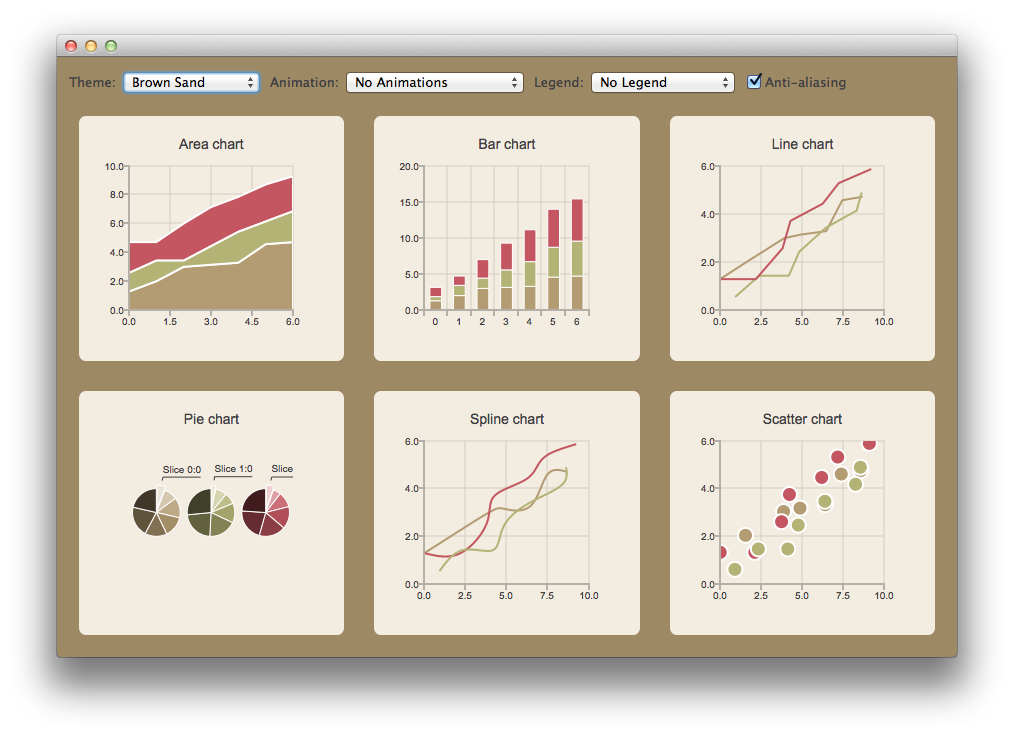
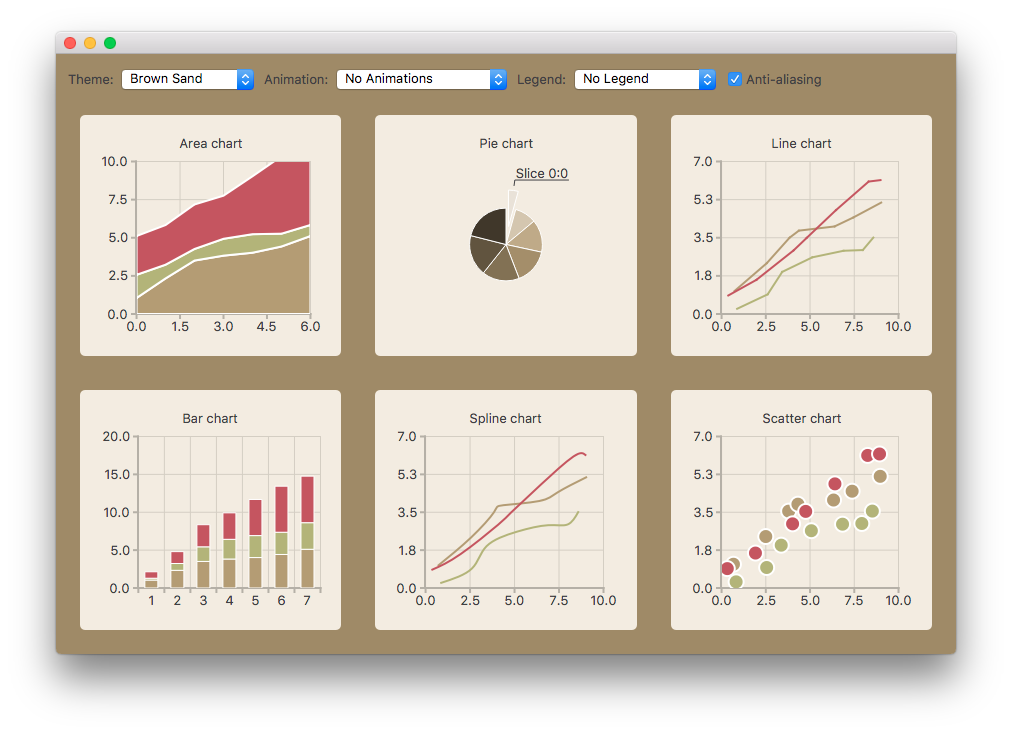
Update appearance of Chart Themes Example
Default ranges are set to axes. Only one pie chart is shown. Space added
to y-axis labels to add space between labels and axis.

Task-number: QTBUG-60662

diff --git a/qtcharts/examples/charts/chartthemes/themewidget.cpp b/qtcharts/examples/charts/chartthemes/themewidget.cpp
@@ -53,6 +53,7 @@
 #include <QtCore/QRandomGenerator>
 #include <QtCharts/QBarCategoryAxis>
 #include <QtWidgets/QApplication>
+#include <QtCharts/QValueAxis>
 
 ThemeWidget::ThemeWidget(QWidget *parent) :
     QWidget(parent),
@@ -75,7 +76,9 @@ ThemeWidget::ThemeWidget(QWidget *parent) :
     m_ui->gridLayout->addWidget(chartView, 1, 0);
     m_charts << chartView;
 
-    chartView = new QChartView(createBarChart(m_valueCount));
+    chartView = new QChartView(createPieChart());
+    // Funny things happen if the pie slice labels do not fit the screen, so we ignore size policy
+    chartView->setSizePolicy(QSizePolicy::Ignored, QSizePolicy::Ignored);
     m_ui->gridLayout->addWidget(chartView, 1, 1);
     m_charts << chartView;
 
@@ -83,9 +86,7 @@ ThemeWidget::ThemeWidget(QWidget *parent) :
     m_ui->gridLayout->addWidget(chartView, 1, 2);
     m_charts << chartView;
 
-    chartView = new QChartView(createPieChart());
-    // Funny things happen if the pie slice labels do not fit the screen, so we ignore size policy
-    chartView->setSizePolicy(QSizePolicy::Ignored, QSizePolicy::Ignored);
+    chartView = new QChartView(createBarChart(m_valueCount));
     m_ui->gridLayout->addWidget(chartView, 2, 0);
     m_charts << chartView;
 
@@ -191,9 +192,14 @@ QChart *ThemeWidget::createAreaChart() const
         area->setName(name + QString::number(nameIndex));
         nameIndex++;
         chart->addSeries(area);
-        chart->createDefaultAxes();
         lowerSeries = upperSeries;
     }
+
+    chart->createDefaultAxes();
+    chart->axisX()->setRange(0, m_valueCount - 1);
+    chart->axisY()->setRange(0, m_valueMax);
+    // Add space to label to add space between labels and axis
+    static_cast<QValueAxis *>(chart->axisY())->setLabelFormat("%.1f  ");
 
     return chart;
 }
@@ -212,7 +218,11 @@ QChart *ThemeWidget::createBarChart(int valueCount) const
         series->append(set);
     }
     chart->addSeries(series);
+
     chart->createDefaultAxes();
+    chart->axisY()->setRange(0, m_valueMax * 2);
+    // Add space to label to add space between labels and axis
+    static_cast<QValueAxis *>(chart->axisY())->setLabelFormat("%.1f  ");
 
     return chart;
 }
@@ -232,7 +242,12 @@ QChart *ThemeWidget::createLineChart() const
         nameIndex++;
         chart->addSeries(series);
     }
+
     chart->createDefaultAxes();
+    chart->axisX()->setRange(0, m_valueMax);
+    chart->axisY()->setRange(0, m_valueCount);
+    // Add space to label to add space between labels and axis
+    static_cast<QValueAxis *>(chart->axisY())->setLabelFormat("%.1f  ");
 
     return chart;
 }
@@ -242,29 +257,24 @@ QChart *ThemeWidget::createPieChart() const
     QChart *chart = new QChart();
     chart->setTitle("Pie chart");
 
-    qreal pieSize = 1.0 / m_dataTable.count();
-    for (int i = 0; i < m_dataTable.count(); i++) {
-        QPieSeries *series = new QPieSeries(chart);
-        for (const Data &data : m_dataTable[i]) {
-            QPieSlice *slice = series->append(data.second, data.first.y());
-            if (data == m_dataTable[i].first()) {
-                slice->setLabelVisible();
-                slice->setExploded();
-            }
+    QPieSeries *series = new QPieSeries(chart);
+    for (const Data &data : m_dataTable[0]) {
+        QPieSlice *slice = series->append(data.second, data.first.y());
+        if (data == m_dataTable[0].first()) {
+            // Show the first slice exploded with label
+            slice->setLabelVisible();
+            slice->setExploded();
+            slice->setExplodeDistanceFactor(0.5);
         }
-        qreal hPos = (pieSize / 2) + (i / (qreal) m_dataTable.count());
-        series->setPieSize(pieSize);
-        series->setHorizontalPosition(hPos);
-        series->setVerticalPosition(0.5);
-        chart->addSeries(series);
     }
+    series->setPieSize(0.4);
+    chart->addSeries(series);
 
     return chart;
 }
 
 QChart *ThemeWidget::createSplineChart() const
 {
-    // spine chart
     QChart *chart = new QChart();
     chart->setTitle("Spline chart");
     QString name("Series ");
@@ -277,7 +287,13 @@ QChart *ThemeWidget::createSplineChart() const
         nameIndex++;
         chart->addSeries(series);
     }
+
     chart->createDefaultAxes();
+    chart->axisX()->setRange(0, m_valueMax);
+    chart->axisY()->setRange(0, m_valueCount);
+    // Add space to label to add space between labels and axis
+    static_cast<QValueAxis *>(chart->axisY())->setLabelFormat("%.1f  ");
+
     return chart;
 }
 
@@ -296,7 +312,13 @@ QChart *ThemeWidget::createScatterChart() const
         nameIndex++;
         chart->addSeries(series);
     }
+
     chart->createDefaultAxes();
+    chart->axisX()->setRange(0, m_valueMax);
+    chart->axisY()->setRange(0, m_valueCount);
+    // Add space to label to add space between labels and axis
+    static_cast<QValueAxis *>(chart->axisY())->setLabelFormat("%.1f  ");
+
     return chart;
 }
 
@@ -310,6 +332,7 @@ void ThemeWidget::updateUI()
         for (QChartView *chartView : charts)
             chartView->chart()->setTheme(theme);
 
+        // Set palette colors based on selected theme
         QPalette pal = window()->palette();
         if (theme == QChart::ChartThemeLight) {
             pal.setColor(QPalette::Window, QRgb(0xf0f0f0));
@@ -339,10 +362,12 @@ void ThemeWidget::updateUI()
         window()->setPalette(pal);
     }
 
+    // Update antialiasing
     bool checked = m_ui->antialiasCheckBox->isChecked();
     for (QChartView *chart : charts)
         chart->setRenderHint(QPainter::Antialiasing, checked);
 
+    // Update animation options
     QChart::AnimationOptions options(
                 m_ui->animatedComboBox->itemData(m_ui->animatedComboBox->currentIndex()).toInt());
     if (!m_charts.isEmpty() && m_charts.at(0)->chart()->animationOptions() != options) {
@@ -350,6 +375,7 @@ void ThemeWidget::updateUI()
             chartView->chart()->setAnimationOptions(options);
     }
 
+    // Update legend alignment
     Qt::Alignment alignment(
                 m_ui->legendComboBox->itemData(m_ui->legendComboBox->currentIndex()).toInt());
 
